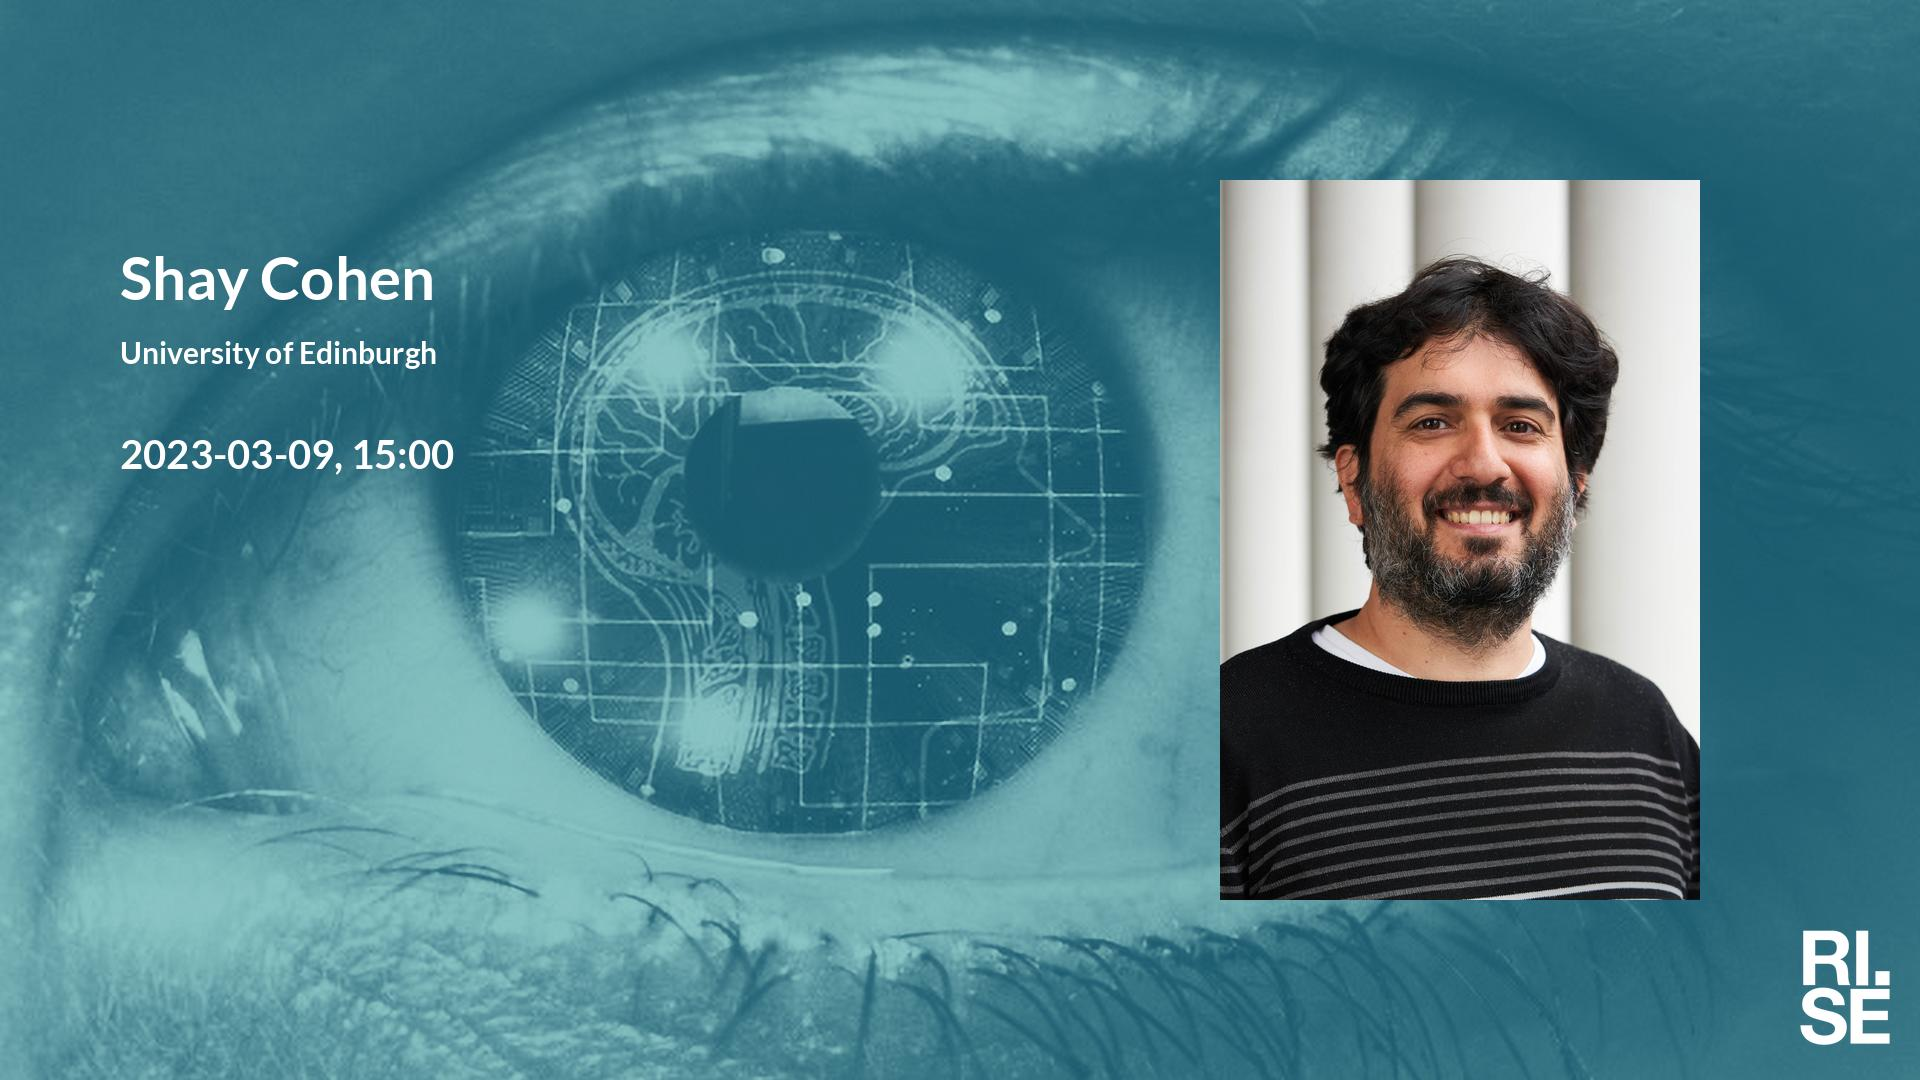
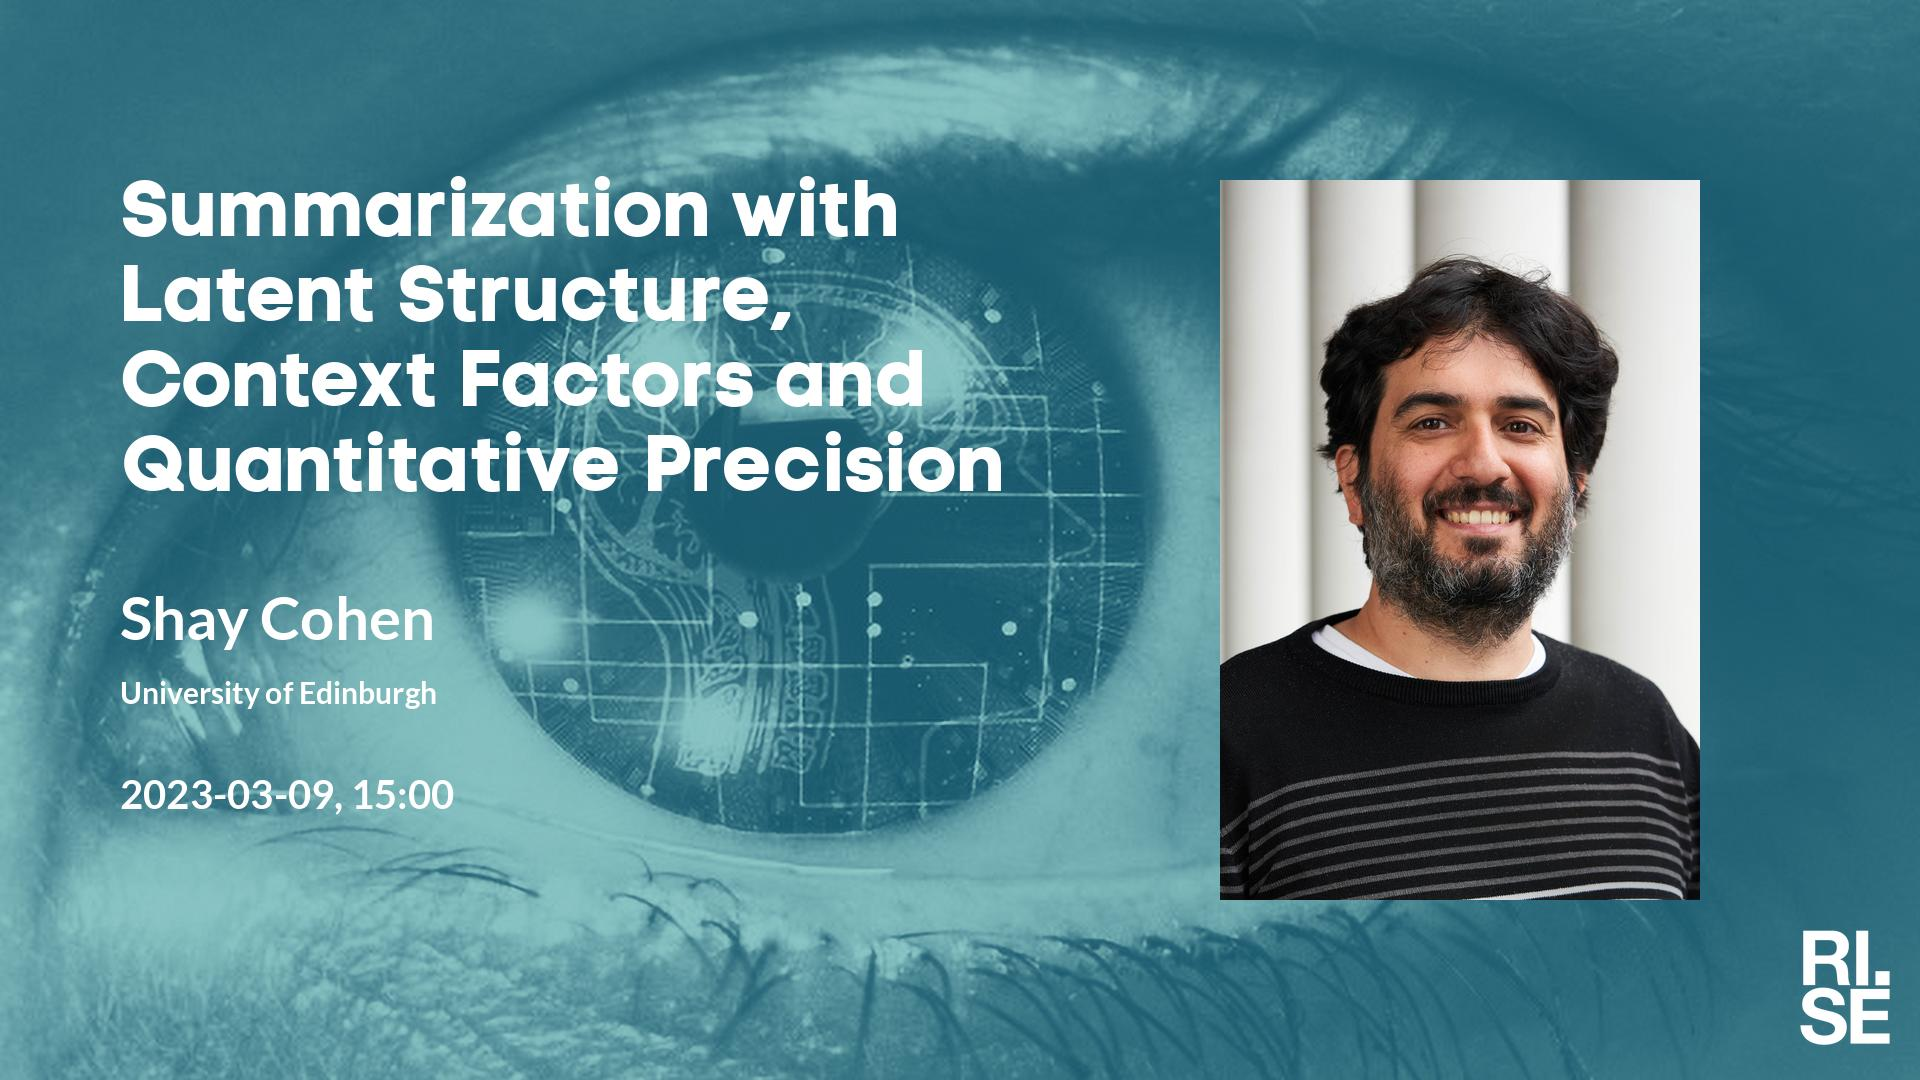
Updated plan on web site.

Changed region(s): [[0.0625, 0.1528, 0.5312, 0.4583], [0.0625, 0.55, 0.2188, 0.6722], [0.0625, 0.7028, 0.25, 0.7639]]

diff --git a/lm/index.md b/lm/index.md
@@ -5,17 +5,16 @@ metatags: "<meta name=\"robots\" content=\"noindex,nofollow\" />"
 <style type="text/css" scoped>
 td, th {border: 1px solid #ccc; padding: 0.6em;}
 table {border-collapse: collapse;}
-</style># Learning Machines Plan 2023-02-08
+</style># Learning Machines Plan 2023-02-21
 
 | date | speaker                                   | photo | shareable | meeting backdrop | youtube thumbnail | <a title="Speaker, Title, Abstract, Bio, Photo. Strikethrough means we don't have it yet.">comment</a>        |
 | ---- | ----------------------------------------- | ----- | ----- | ----- | ----- | -------------- |
-|  2023-01-26  |  [Lena Voita, FAIR](2023-01-26.md)  |  [photo](photo-lena-voita.jpg)  |  [social media ](social-media-lena-voita.jpg)  |  [meeting backdrop ](meeting-backdrop-lena-voita.jpg)  |  [youtube thumbnail ](youtube-thumbnail-lena-voita.jpg)  |  STABP  |
 |  2023-02-02  |  [Vincent Szolnoky, Chalmers University of Technology](2023-02-02.md)  |  [photo](photo-vincent-szolnoky.png)  |  [social media ](social-media-vincent-szolnoky.jpg)  |  [meeting backdrop ](meeting-backdrop-vincent-szolnoky.jpg)  |  [youtube thumbnail ](youtube-thumbnail-vincent-szolnoky.jpg)  |  STABP  |
 |  2023-02-09  |  [Joakim Nivre, Erik Ylipää, and Olof Mogren, RISE](2023-02-09.md)  |  [photo](photo-joakim-nivre--erik-ylipaa--and-olof-mogren.jpg)  |  [social media ](social-media-joakim-nivre--erik-ylipaa--and-olof-mogren.jpg)  |  [meeting backdrop ](meeting-backdrop-joakim-nivre--erik-ylipaa--and-olof-mogren.jpg)  |  [youtube thumbnail ](youtube-thumbnail-joakim-nivre--erik-ylipaa--and-olof-mogren.jpg)  |  STABP  |
 | <span style="color:red"> 2023-02-16 </span> | <span style="color:red"> Sportlov-GBG </span> | <span style="color:red">  </span> | <span style="color:red">  </span> | <span style="color:red">  </span> | <span style="color:red">  </span> | <span style="color:red"> CANCELLED </span> |
 |  2023-02-23  |  [Alexander Ilin, Aalto University](2023-02-23.md)  |  [photo](photo-alexander-ilin.jpg)  |  [social media ](social-media-alexander-ilin.jpg)  |  [meeting backdrop ](meeting-backdrop-alexander-ilin.jpg)  |  [youtube thumbnail ](youtube-thumbnail-alexander-ilin.jpg)  |  STABP  |
 | <span style="color:red"> 2023-03-02 </span> | <span style="color:red"> Sportlov-STHLM </span> | <span style="color:red">  </span> | <span style="color:red">  </span> | <span style="color:red">  </span> | <span style="color:red">  </span> | <span style="color:red"> CANCELLED </span> |
-|  2023-03-09  |  [Shay Cohen, University of Edinburgh](2023-03-09.md)  |  [photo](photo-shay-cohen.jpg)  |  [social media ](social-media-shay-cohen.jpg)  |  [meeting backdrop ](meeting-backdrop-shay-cohen.jpg)  |  [youtube thumbnail ](youtube-thumbnail-shay-cohen.jpg)  |  S~~TAB~~P  |
+|  2023-03-09  |  [Shay Cohen, University of Edinburgh](2023-03-09.md)  |  [photo](photo-shay-cohen.jpg)  |  [social media ](social-media-shay-cohen.jpg)  |  [meeting backdrop ](meeting-backdrop-shay-cohen.jpg)  |  [youtube thumbnail ](youtube-thumbnail-shay-cohen.jpg)  |  STABP  |
 |  2023-03-16  |  [Stefanos Georganos, Karlstad University/KTH](2023-03-16.md)  |  [photo](photo-stefanos-georganos.jpg)  |  [social media ](social-media-stefanos-georganos.jpg)  |  [meeting backdrop ](meeting-backdrop-stefanos-georganos.jpg)  |  [youtube thumbnail ](youtube-thumbnail-stefanos-georganos.jpg)  |  STABP  |
 |  2023-03-23  |  [Gabrielle Flood, Lund University](2023-03-23.md)  |  [photo](photo-gabrielle-flood.jpg)  |  [social media ](social-media-gabrielle-flood.jpg)  |  [meeting backdrop ](meeting-backdrop-gabrielle-flood.jpg)  |  [youtube thumbnail ](youtube-thumbnail-gabrielle-flood.jpg)  |  ST~~AB~~P  |
 |  2023-03-30  |  [Puzhao Zhang, KTH](2023-03-30.md)  |  [photo](photo-puzhao-zhang.jpg)  |  [social media ](social-media-puzhao-zhang.jpg)  |  [meeting backdrop ](meeting-backdrop-puzhao-zhang.jpg)  |  [youtube thumbnail ](youtube-thumbnail-puzhao-zhang.jpg)  |  S~~TAB~~P  |

diff --git a/lm/2023-03-09.md b/lm/2023-03-09.md
@@ -4,13 +4,13 @@ metatags: "<meta name=\"robots\" content=\"noindex,nofollow\" />"
 ---
 Welcome to this week's Learning Machines seminar.
 
-**Title:** 
+**Title:** Summarization with Latent Structure, Context Factors and Quantitative Precision
 
 **Speaker:** Shay Cohen, University of Edinburgh
 
-**Abstract:** 
+**Abstract:** Large language models (LLMs) have demonstrated remarkable results in NLP, achieving significant progress in many tasks, including document summarization. I will show through three avenues how we can support LLMs to provide summaries that better suit user needs. I will first show how latent structure can improve the summaries when we require synthesis of different parts of the input document to achieve a reasonable summary. I will then show how we can consider context factors when summarizing, as they are often latent but significantly affect the desired outcome. I will continue by showing that "verifier models" can mitigate the well-known problem of imprecision with generated text, focusing on the accuracy of specifying quantitative information. I will conclude with thoughts about where we are going with LLMs, and what we can do better.
 
-**About the speaker:** 
+**About the speaker:** Shay Cohen is a Reader at the University of Edinburgh (School of Informatics). Before this, he was a postdoctoral research scientist in the Department of Computer Science at Columbia University and held an NSF/CRA Computing Innovation Fellowship. He received his B.Sc. and M.Sc. from Tel Aviv University in 2000 and 2004 and his Ph.D. from Carnegie Mellon University in 2011. His research interests span a range of topics in NLP and machine learning, with a focus on structured prediction (for example, parsing) and text generation.
 
 **Location:** This is an online seminar. Connect using Zoom.
 
